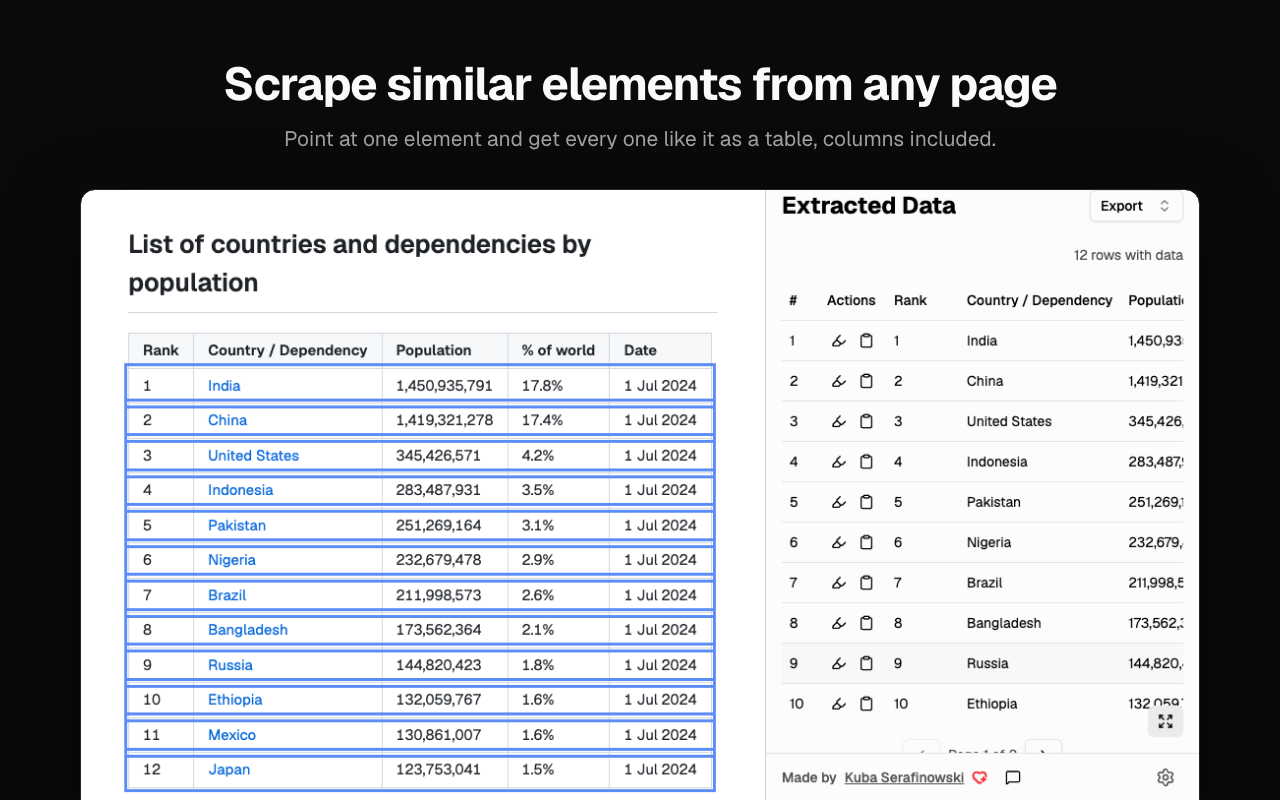
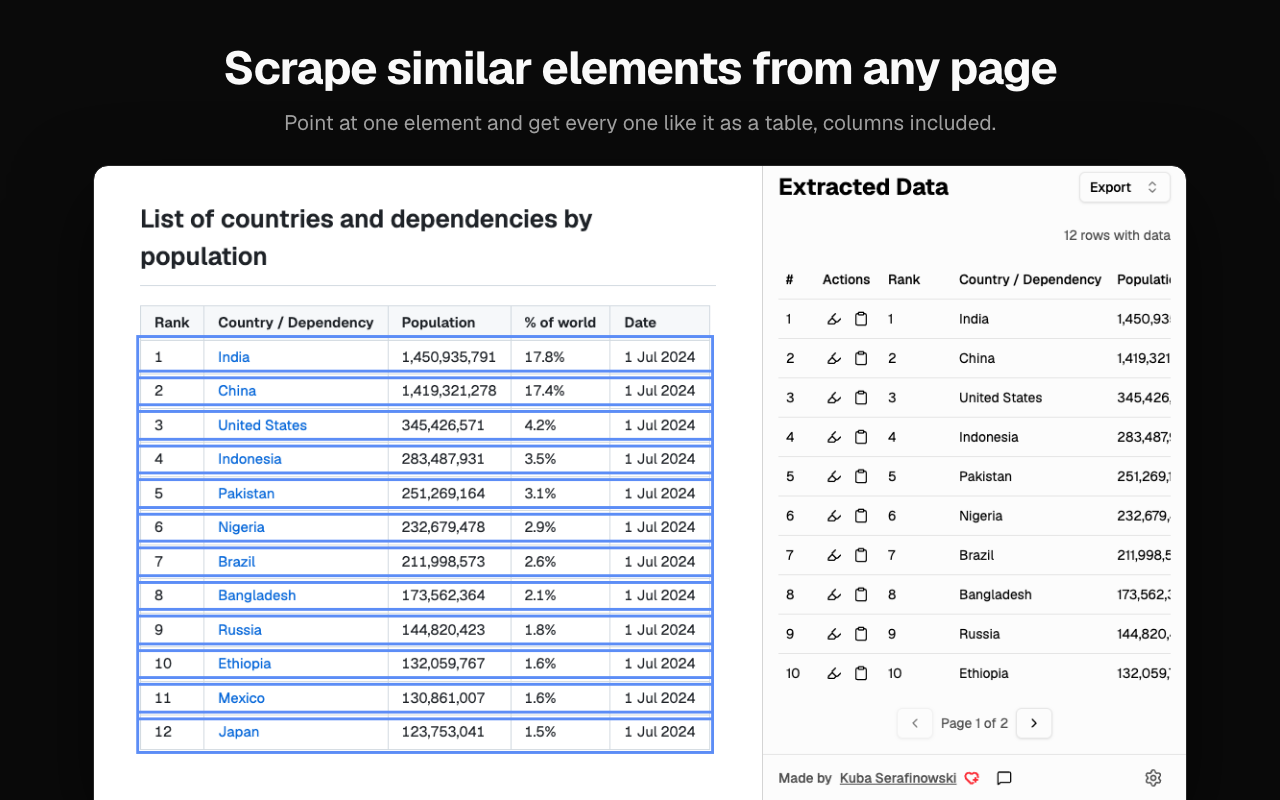
fix(store-assets): keep hover state and clipping out of the lead image
The side panel capture caught the data table's hover-only "Open in
full view" button, because the pointer stayed where the Scrape click
left it, and pinning the heading pushed the pagination under the
sticky footer. The pointer is now moved off before capturing, the
panel is scrolled to its end with the pagination above the footer,
and the capture is tall enough for the heading to stay in view, which
the spec asserts.

diff --git a/tests/e2e/store-assets/store-assets.spec.ts b/tests/e2e/store-assets/store-assets.spec.ts
@@ -76,25 +76,34 @@ const expectGeistLoaded = (page: Page) =>
     .toBe(true)
 
 /**
- * Scrolls `target` to the top of its scroll container and waits until it stays
- * there: the side panel smooth-scrolls its results into view on its own, which
- * can land after a single scroll call.
+ * Scrolls `target` to the top, or with `block: 'end'` to just above the sticky
+ * footer, and waits until it stays there: the side panel smooth-scrolls its
+ * results into view on its own, which can land after a single scroll call.
  */
-const pinToTop = async (target: Locator) => {
+const pin = async (target: Locator, block: 'start' | 'end') => {
   let previousTop: number | undefined
   await expect
     .poll(async () => {
-      const top = await target.evaluate(async (element) => {
-        element.scrollIntoView({ block: 'start', behavior: 'instant' })
+      const top = await target.evaluate(async (element, block) => {
+        const footer = document.querySelector('[data-slot="footer"]')
+        element.style.scrollMarginBottom = `${footer?.getBoundingClientRect().height ?? 0}px`
+        element.scrollIntoView({ block, behavior: 'instant' })
         await new Promise((resolve) => requestAnimationFrame(() => requestAnimationFrame(resolve)))
         return element.getBoundingClientRect().top
-      })
+      }, block)
       const isSettled = top === previousTop
       previousTop = top
       return isSettled
     })
     .toBe(true)
 }
+
+/**
+ * Moves the pointer off the side panel's content: the data table shows its
+ * "Open in full view" button only while hovered, and the pointer otherwise
+ * stays where the last click left it.
+ */
+const parkPointer = (sidePanel: Page) => sidePanel.mouse.move(0, 0)
 
 /**
  * Screenshots `page` until two consecutive captures match, then writes the last
@@ -199,15 +208,18 @@ test('store assets', async ({ browser, context, serviceWorker, openSidePanel }, 
       }).length,
   )
   expect(frozenCount).toBe(DEMO_TARGET_PAGE_FACTS.tableRows)
-  await pinToTop(extractedData)
+  await parkPointer(sidePanel)
+  await pin(sidePanel.getByText(/^Page \d+ of \d+$/), 'end')
+  await expect(extractedData).toBeInViewport({ ratio: 1 })
   await captureSteady(page, raw('page-scraped'))
   await captureSteady(sidePanel, raw('panel-scraped'))
 
   // Export menu.
   await sidePanel.setViewportSize(SIDE_SHOT_SIZE)
-  await pinToTop(extractedData)
+  await pin(extractedData, 'start')
   await sidePanel.getByRole('button', { name: /^export$/i }).click()
   await expect(sidePanel.getByRole('menuitem', { name: /google sheets/i })).toBeVisible()
+  await parkPointer(sidePanel)
   await settle(sidePanel)
   await captureSteady(sidePanel, raw('export'))
   await sidePanel.keyboard.press('Escape')

diff --git a/tests/e2e/store-assets/compose.ts b/tests/e2e/store-assets/compose.ts
@@ -78,8 +78,8 @@ export const WIDE_SHOT_SIZE = { width: 1088, height: 680 }
 
 /** Page and side panel capture sizes {@link browserShot} frames side by side. */
 export const BROWSER_SHOT_SIZES = {
-  page: { width: 696, height: 620 },
-  panel: { width: 440, height: 620 },
+  page: { width: 696, height: 660 },
+  panel: { width: 440, height: 660 },
 }
 
 /** 1280×800: headline on the left, a side panel capture on the right. */
@@ -105,7 +105,7 @@ export const sideShot = (page: Page, o: ShotCopy) =>
 const topCopy = (o: ShotCopy) => `<div class="copy"><h1>${o.title}</h1><p>${o.text}</p></div>`
 
 const TOP_COPY_CSS = `
-  main { display: flex; flex-direction: column; align-items: center; height: 100%; padding-top: 60px; gap: 36px; }
+  main { display: flex; flex-direction: column; align-items: center; height: 100%; padding-top: 44px; gap: 28px; }
   .copy { text-align: center; display: flex; flex-direction: column; gap: 14px; max-width: 960px; }
   h1 { font-size: 46px; } p { font-size: 21px; }
   .shot { border-bottom-left-radius: 0; border-bottom-right-radius: 0; }
